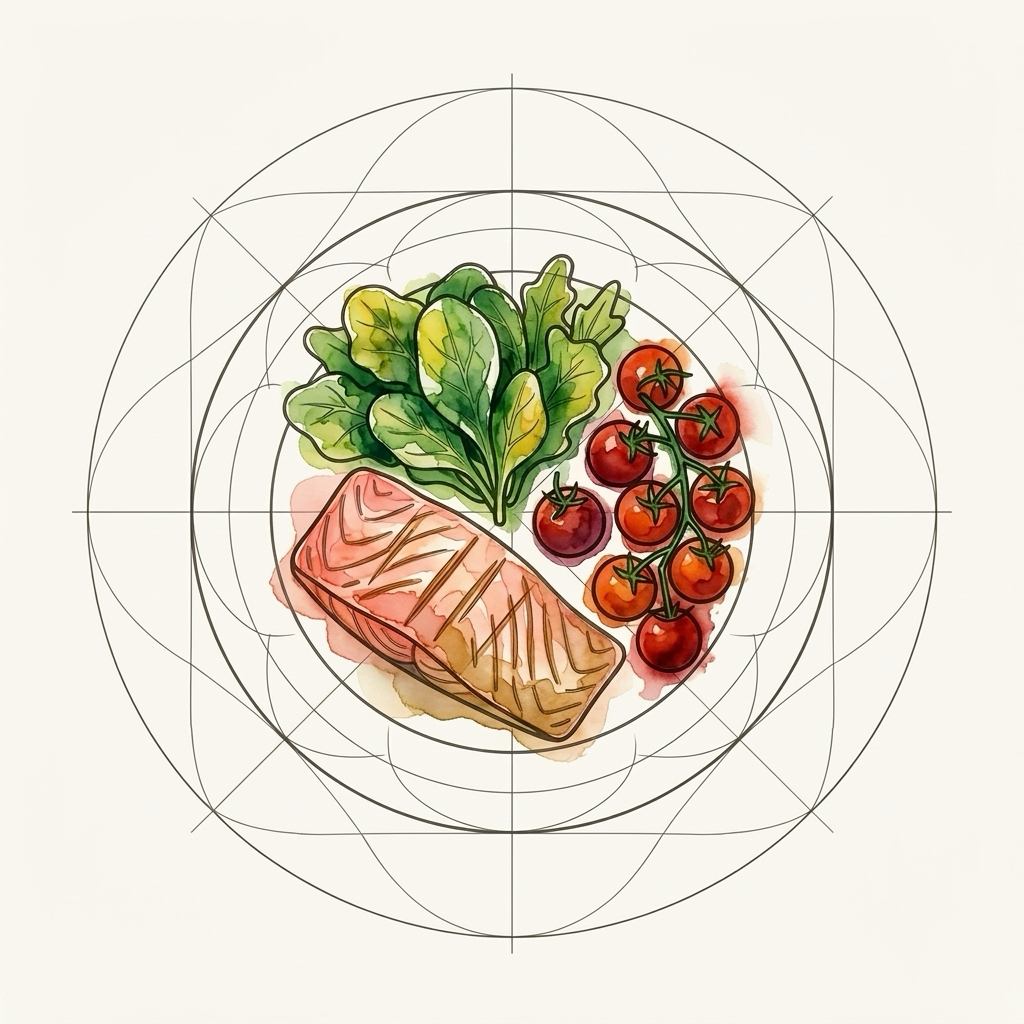
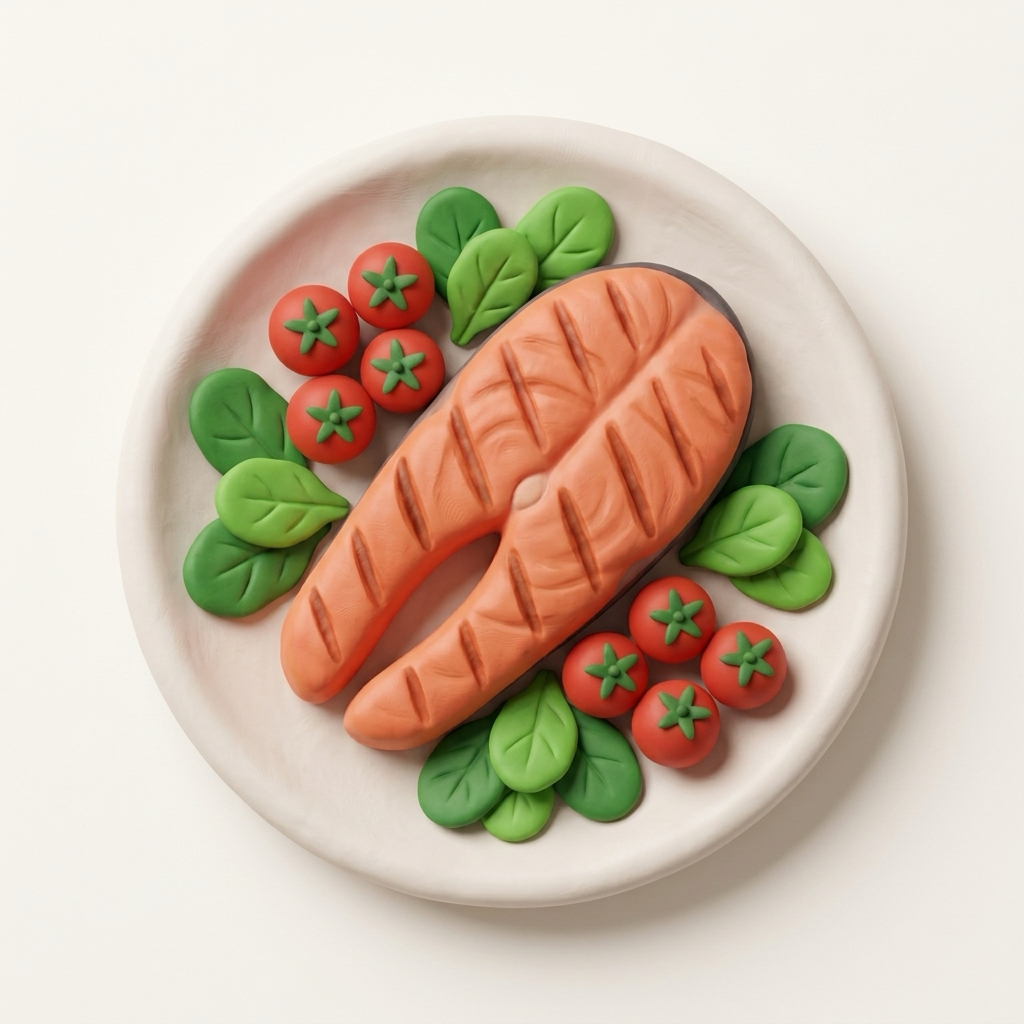
feat: new art direction

diff --git a/apps/mobile/app.config.ts b/apps/mobile/app.config.ts
@@ -28,8 +28,8 @@ const config: ExpoConfig = {
   scheme: "magpie",
   userInterfaceStyle: "automatic",
   ios: {
-    icon: "./assets/expo.icon",
-    bundleIdentifier: `com.magpie.app${variant.idSuffix}`,
+    icon: "./assets/images/icon.png",
+    bundleIdentifier: `com.magpiemeals.app${variant.idSuffix}`,
     supportsTablet: true,
     infoPlist: {
       ...(APP_ENV === "prod"
@@ -47,12 +47,12 @@ const config: ExpoConfig = {
     },
   },
   android: {
-    package: `com.magpie.app${variant.idSuffix}`,
-    // Download new Firebase registrations for com.magpie.app and each variant.
+    package: `com.magpiemeals.app${variant.idSuffix}`,
+    // Download new Firebase registrations for com.magpiemeals.app and each variant.
     // Do not relabel the old credentials.
     googleServicesFile: "./google-services.json",
     adaptiveIcon: {
-      backgroundColor: "#E6F4FE",
+      backgroundColor: "#FBF8F4",
       foregroundImage: "./assets/images/android-icon-foreground.png",
       backgroundImage: "./assets/images/android-icon-background.png",
       monochromeImage: "./assets/images/android-icon-monochrome.png",
@@ -66,6 +66,7 @@ const config: ExpoConfig = {
   plugins: [
     "expo-router",
     "expo-secure-store",
+    "expo-splash-screen",
     [
       "expo-notifications",
       {
@@ -90,7 +91,7 @@ const config: ExpoConfig = {
     posthogProjectToken: process.env.EXPO_PUBLIC_POSTHOG_PROJECT_TOKEN,
     posthogHost: process.env.EXPO_PUBLIC_POSTHOG_HOST,
     eas: {
-      projectId: "9d346f03-cba0-486d-b35c-7a4755567232",
+      projectId: "e270b2e9-0b2c-4518-9d46-2f8777b681e0",
     },
   },
 };

diff --git a/apps/mobile/src/features/onboarding/art/README.md b/apps/mobile/src/features/onboarding/art/README.md
@@ -1,19 +1,19 @@
 # Onboarding Artwork Style & Prompts
 
-The onboarding and setup artwork uses a **Digital Botanical Watercolor with Geometric Construction** style. It combines organic culinary watercolor washes with sharp, computational geometric construction lines (compass circles, tangent vector arcs, and alignment guides) on a solid background matching the app's light theme (`#FBF8F4` from `apps/mobile/src/global.css`).
+The onboarding and setup artwork uses a **Tactile Polymer Clay / Claymorphism** mascot and culinary illustration style. It features handcrafted, pillowy plasticine volumes, smooth matte textures with soft rounded edges, warm studio lighting from the top-left casting gentle shadows, and a solid flat background matching the app's light theme (`#FBF8F4` from `apps/mobile/src/global.css`).
 
 ## Style Formula
 
 ```text
-Digital botanical watercolor illustration with sharp geometric precision. [Subject description]. Rendered with ultra-crisp, mathematically exact geometric vector curves, concentric circular construction lines, compass arcs, and alignment guides, filled with translucent generative watercolor blooms, fluid gradients, and soft pigment bleeds. Clean vector lines without any text, words, labels, or lettering. Set on a solid flat background with exact color #FBF8F4 (light warm porcelain off-white). Same composition as reference.
+[Subject description]. Matte polymer clay art style, smooth plasticine with soft rounded edges, pillowy volume, cute handmade tactile feel, soft studio lighting from top-left with gentle shadows, solid flat background with exact color #FBF8F4. No text, words, labels, or lettering.
 ```
 
 ### Generation Settings
 
-- **Aspect Ratio**: `1:1` (1024x1024)
-- **Background Color**: `#FBF8F4` (theme token `--color-background`)
-- **Reference Image**: Provide the target artwork's prior version or composition sketch as input image.
-- **Negative / Constraints**: Explicitly prohibit text/labels (`Clean vector lines without any text, words, labels, or lettering`).
+- **Aspect Ratio**: `1:1` (1024x1024 PNG)
+- **Background Color**: `#FBF8F4` (theme token `--color-background` / porcelain off-white)
+- **Reference Benchmark**: Passed reference image `magpie_clay_mascot_1791811209570.jpg` for character and material consistency across all assets.
+- **Negative / Constraints**: Prohibit text, lettering, and labels (`No text, words, labels, or lettering`).
 
 ---
 
@@ -21,30 +21,30 @@ Digital botanical watercolor illustration with sharp geometric precision. [Subje
 
 ### `art-welcome.png`
 
-- **Subject**: White beans with vine tomatoes, basil, and spoon
+- **Subject**: Clay Magpie mascot perched beside bowl of white beans, vine tomatoes, basil, and spoon
 - **Prompt**:
-  > Digital botanical watercolor illustration with sharp geometric precision. A bowl of white beans, topped with ripe red cherry tomatoes on the vine and fresh green basil leaves, with a spoon resting beside the bowl. Rendered with ultra-crisp, mathematically exact geometric vector curves, compass arcs, and concentric circular construction lines, filled with translucent generative watercolor blooms, fluid gradients, and soft pigment bleeds. Clean vector lines without any text, words, labels, or lettering. Set on a solid flat background with exact color #FBF8F4 (light warm porcelain off-white). Same composition as reference.
+  > Clay Magpie mascot perched happily beside a wooden bowl filled with white beans, ripe red cherry tomatoes on the vine, and fresh green basil leaves with a spoon. Same matte polymer clay art style, smooth plasticine, rounded edges, soft studio lighting from top-left, solid flat background with exact color #FBF8F4 as reference image. No text or lettering.
 
 ### `art-diet.png`
 
-- **Subject**: Plated grilled salmon, salad greens, and vine tomatoes
+- **Subject**: Plump clay plate with grilled salmon fillet, salad leaves, and cherry tomatoes
 - **Prompt**:
-  > Digital botanical watercolor illustration with sharp geometric precision. A round plate viewed from above, containing a grilled salmon fillet with grill marks, vibrant green salad leaves, and a vine of ripe red cherry tomatoes. Rendered with ultra-crisp, mathematically exact geometric vector curves, concentric circular construction lines, compass arcs, and alignment guides, filled with translucent generative watercolor blooms, fluid gradients, and soft pigment bleeds. Clean vector lines without any text, words, labels, or lettering. Set on a solid flat background with exact color #FBF8F4 (light warm porcelain off-white). Same circular composition as reference.
+  > Plump clay ceramic plate viewed from above containing a tender grilled salmon fillet with grill marks, vibrant green salad leaves, and red cherry tomatoes. Same matte polymer clay art style, smooth plasticine, pillowy volumes, soft studio lighting from top-left with gentle shadows, solid flat background with exact color #FBF8F4 as reference image. No text or lettering.
 
 ### `art-kitchen.png`
 
-- **Subject**: Red enameled Dutch oven steaming on burner with wooden spoon
+- **Subject**: Red enameled Dutch oven casserole pot on burner with steam puffs and wooden spoon
 - **Prompt**:
-  > Digital culinary watercolor illustration with sharp geometric precision. An enameled red dutch oven casserole pot with lid on a stovetop burner base, with gentle stylized rising steam and a wooden spoon beside it. Rendered with ultra-crisp, mathematically exact geometric vector curves, concentric circular construction lines, compass arcs, and alignment guides, filled with translucent generative watercolor blooms, fluid gradients, and soft pigment bleeds. Clean vector lines without any text, words, labels, or lettering. Set on a solid flat background with exact color #FBF8F4 (light warm porcelain off-white). Same three-quarter perspective and composition as reference.
+  > Red enameled dutch oven casserole pot with lid on a stovetop burner base, with gentle stylized clay rising steam puffs and a wooden spoon beside it. Same matte polymer clay art style, smooth plasticine with soft rounded edges, pillowy volume, soft studio lighting from top-left with gentle shadows, solid flat background with exact color #FBF8F4 as reference image. No text or lettering.
 
 ### `art-pantry.png`
 
-- **Subject**: Pantry jars (beans, pasta), tomato can, olive oil bottle
+- **Subject**: Rounded glass jar of white beans, jar of penne pasta, tomato tin can, olive oil bottle
 - **Prompt**:
-  > Digital culinary watercolor illustration with sharp geometric precision. Kitchen pantry items: a glass jar filled with white beans, a taller glass jar filled with penne pasta, a small tin can with a red tomato motif, and an elegant clear glass bottle with golden olive oil. Rendered with ultra-crisp, mathematically exact geometric vector curves, concentric circular construction lines, compass arcs, and alignment guides, filled with translucent generative watercolor blooms, fluid gradients, and soft pigment bleeds. Clean vector lines without any text, words, labels, or lettering. Set on a solid flat background with exact color #FBF8F4 (light warm porcelain off-white). Same arrangement and composition as reference.
+  > Kitchen pantry items: a rounded clear glass jar filled with clay white beans, a glass jar filled with penne pasta, a small tin can with a sculpted red tomato motif, and an olive oil bottle. Same matte polymer clay art style, smooth plasticine with soft rounded edges, pillowy volume, soft studio lighting from top-left with gentle shadows, solid flat background with exact color #FBF8F4 as reference image. No text or lettering.
 
 ### `art-fresh.png`
 
-- **Subject**: Vine tomatoes, basil leaves, onion, garlic bulb
+- **Subject**: Vine cherry tomatoes, fresh basil leaves, yellow onion, and garlic bulb
 - **Prompt**:
-  > Digital botanical watercolor illustration with sharp geometric precision. Ripe red tomatoes on the vine, basil leaves, onion, and garlic bulb. Rendered with ultra-crisp, mathematically exact geometric vector curves and concentric circular construction lines, filled with translucent generative watercolor blooms, fluid gradients, and soft pigment bleeds. Clean vector lines without any text, words, labels, or lettering. Set on a solid flat background with exact color #FBF8F4 (light warm porcelain off-white). Same composition as reference.
+  > Fresh culinary ingredients: ripe red cherry tomatoes on the vine, vibrant green basil leaves, a plump yellow onion, and a whole garlic bulb. Same matte polymer clay art style, smooth plasticine with soft rounded edges, pillowy volume, soft studio lighting from top-left with gentle shadows, solid flat background with exact color #FBF8F4 as reference image. No text or lettering.

diff --git a/apps/mobile/assets/images/spot/README.md b/apps/mobile/assets/images/spot/README.md
@@ -1,0 +1,25 @@
+# Spot Illustrations
+
+Clay-style spot illustrations for Magpie empty states. Handcrafted matte polymer clay aesthetic matching the Magpie mascot reference (`#FBF8F4` warm background, soft top-left studio lighting, smooth plasticine, rounded edges).
+
+All images are formatted as 400×400 PNG.
+
+## Assets
+
+### `empty-cookbook.png`
+- **Target Dimensions**: 400×400 px
+- **Format**: PNG
+- **Prompt**: Cute chubby clay magpie looking curiously into an open blank recipe notebook. Handcrafted matte polymer clay style matching the reference image, smooth plasticine, rounded edges, soft studio lighting from top-left, solid flat background with exact color #FBF8F4 as reference image.
+- **Usage**: Empty cookbook / recipe list empty state.
+
+### `empty-shop.png`
+- **Target Dimensions**: 400×400 px
+- **Format**: PNG
+- **Prompt**: Empty clay woven market basket with a single small orange sculpted clay carrot resting at the bottom. Handcrafted matte polymer clay style matching the reference image, smooth plasticine, rounded edges, soft studio lighting from top-left, solid flat background with exact color #FBF8F4 as reference image.
+- **Usage**: Empty shopping list / cart empty state.
+
+### `empty-meals.png`
+- **Target Dimensions**: 400×400 px
+- **Format**: PNG
+- **Prompt**: Clean round empty clay ceramic plate with a sculpted clay fork and knife beside it. Handcrafted matte polymer clay style matching the reference image, smooth plasticine, rounded edges, soft studio lighting from top-left, solid flat background with exact color #FBF8F4 as reference image.
+- **Usage**: Empty meal planner / logged meals empty state.
